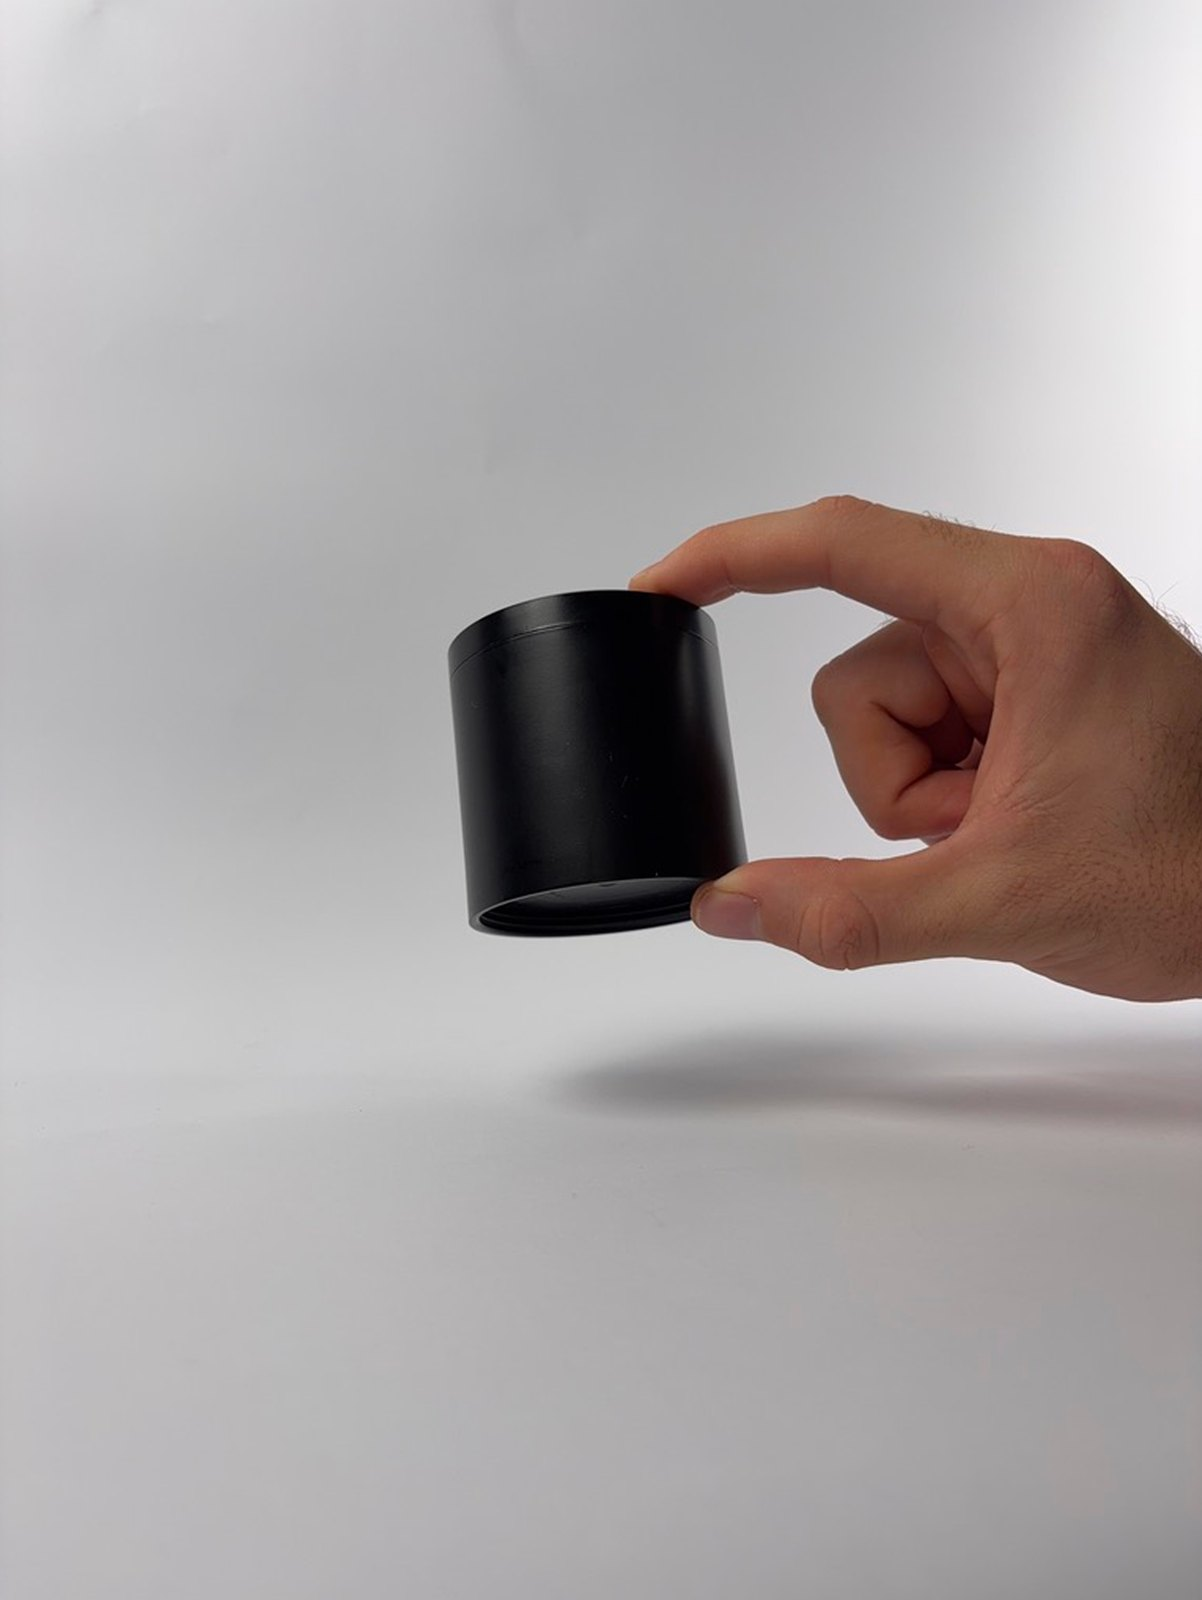
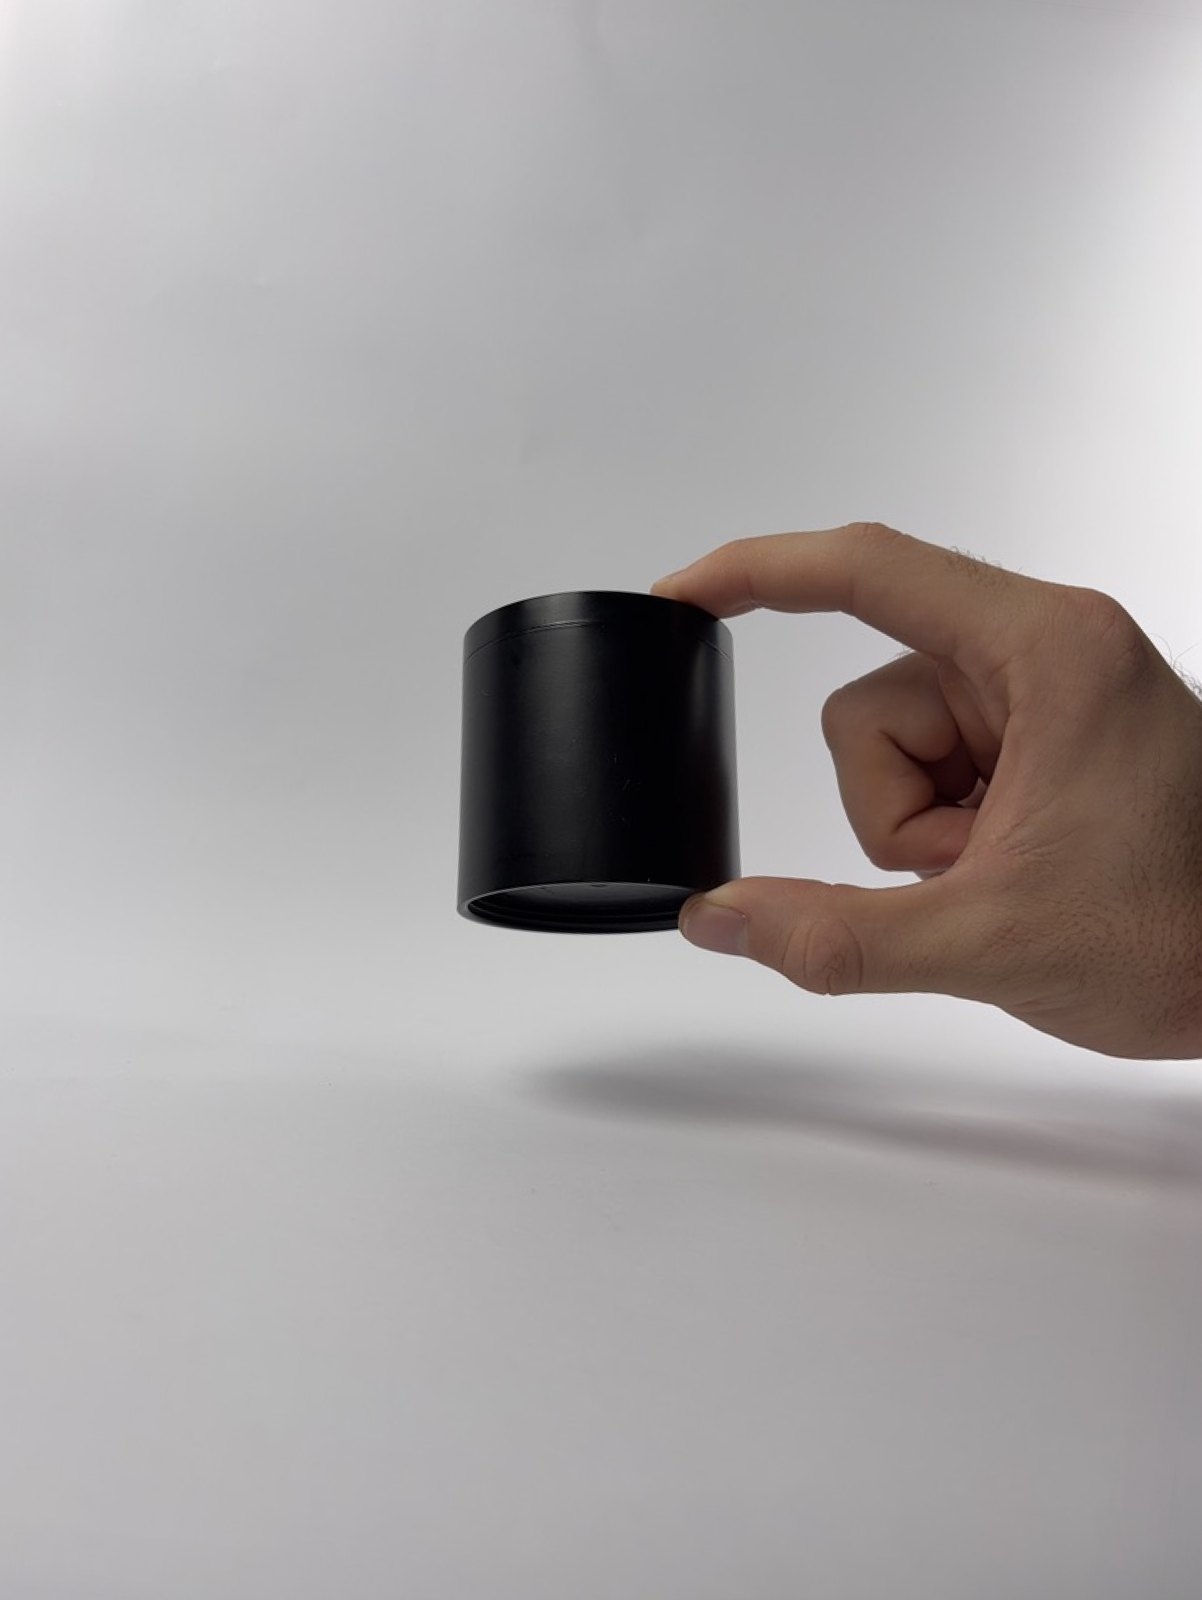
Product galleries: reposition and extend Large Pill Pod photos, refreshed Powder Pod photos, Large Pill Pod card tweaks

diff --git a/hybrid-pod.html b/hybrid-pod.html
@@ -333,23 +333,23 @@
     <div class="product-images-col">
       <div class="pg-gallery">
         <div class="pg-thumbs" id="pg-thumbs">
-          <button type="button" class="pg-thumb is-active" data-src="images/lifestyle_section/Large Pill Pod Prod Image 1.jpg" aria-label="Photo 1">
-            <img src="images/lifestyle_section/Large Pill Pod Prod Image 1.jpg" alt="" />
+          <button type="button" class="pg-thumb is-active" data-src="images/lifestyle_section/Large Pill Pod Prod Image 1 Wide.jpg" data-imgstyle="object-position: 50% 67.9%" aria-label="Photo 1">
+            <img src="images/lifestyle_section/Large Pill Pod Prod Image 1 Wide.jpg" alt="" />
           </button>
-          <button type="button" class="pg-thumb" data-src="images/lifestyle_section/Large Pill Pod Prod Image 2.jpg" aria-label="Photo 2">
-            <img src="images/lifestyle_section/Large Pill Pod Prod Image 2.jpg" alt="" />
+          <button type="button" class="pg-thumb" data-src="images/lifestyle_section/Large Pill Pod Prod Image 2 Wide.jpg" data-imgstyle="object-position: 50% 52.7%" aria-label="Photo 2">
+            <img src="images/lifestyle_section/Large Pill Pod Prod Image 2 Wide.jpg" alt="" />
           </button>
-          <button type="button" class="pg-thumb" data-src="images/lifestyle_section/Large Pill Pod Prod Image 3.jpg" aria-label="Photo 3">
-            <img src="images/lifestyle_section/Large Pill Pod Prod Image 3.jpg" alt="" />
+          <button type="button" class="pg-thumb" data-src="images/lifestyle_section/Large Pill Pod Prod Image 3 Wide.jpg" data-imgstyle="object-position: 50% 67.3%" aria-label="Photo 3">
+            <img src="images/lifestyle_section/Large Pill Pod Prod Image 3 Wide.jpg" alt="" />
           </button>
-          <button type="button" class="pg-thumb" data-src="images/lifestyle_section/Large Pill Pod Prod Image 4.jpg" aria-label="Photo 4">
+          <button type="button" class="pg-thumb" data-src="images/lifestyle_section/Large Pill Pod Prod Image 4.jpg" data-imgstyle="flex: none; width: 105%; max-width: none; position: relative; left: -6px; object-position: 50% 45.2%" aria-label="Photo 4">
             <img src="images/lifestyle_section/Large Pill Pod Prod Image 4.jpg" alt="" />
           </button>
         </div>
         <div class="pg-main">
           <button type="button" class="pg-arrow pg-arrow--prev" id="pg-prev" aria-label="Previous photo">&lsaquo;</button>
           <div class="pg-main-frame" id="pg-main-frame">
-            <img class="pg-main-img" id="pg-main-img" src="images/lifestyle_section/Large Pill Pod Prod Image 1.jpg" alt="Large Pill Pod" />
+            <img class="pg-main-img" id="pg-main-img" style="object-position: 50% 67.9%" src="images/lifestyle_section/Large Pill Pod Prod Image 1 Wide.jpg" alt="Large Pill Pod" />
           </div>
           <button type="button" class="pg-arrow pg-arrow--next" id="pg-next" aria-label="Next photo">&rsaquo;</button>
         </div>
@@ -566,7 +566,7 @@
         var thumb = thumbs[index];
         var src = thumb.dataset.src;
         mainFrame.innerHTML = src
-          ? '<img class="pg-main-img" id="pg-main-img" src="' + src + '" alt="Large Pill Pod" />'
+          ? '<img class="pg-main-img" id="pg-main-img"' + (thumb.dataset.imgstyle ? ' style="' + thumb.dataset.imgstyle + '"' : '') + ' src="' + src + '" alt="Large Pill Pod" />'
           : '<div class="pg-main-placeholder">Product photo</div>';
         thumbs.forEach(function (t, i) { t.classList.toggle('is-active', i === index); });
         current = index;

diff --git a/powder-pod.html b/powder-pod.html
@@ -333,7 +333,7 @@
     <div class="product-images-col">
       <div class="pg-gallery">
         <div class="pg-thumbs" id="pg-thumbs">
-          <button type="button" class="pg-thumb is-active" data-src="images/lifestyle_section/Powder Pod Prod Image 1.jpg" data-imgstyle="width: calc(100% + 18px); max-width: none; margin-left: -18px; object-position: 50% 70.8%" aria-label="Photo 1">
+          <button type="button" class="pg-thumb is-active" data-src="images/lifestyle_section/Powder Pod Prod Image 1.jpg" data-imgstyle="width: calc(100% + 18px); max-width: none; margin-left: -16px; margin-right: -2px; object-position: 50% 70.8%" aria-label="Photo 1">
             <img src="images/lifestyle_section/Powder Pod Prod Image 1.jpg" alt="" />
           </button>
           <button type="button" class="pg-thumb" data-src="images/lifestyle_section/Powder Pod Prod Image 2 Wide.jpg" data-imgstyle="object-position: 50% 76.1%" aria-label="Photo 2">
@@ -352,7 +352,7 @@
         <div class="pg-main">
           <button type="button" class="pg-arrow pg-arrow--prev" id="pg-prev" aria-label="Previous photo">&lsaquo;</button>
           <div class="pg-main-frame" id="pg-main-frame">
-            <img class="pg-main-img" id="pg-main-img" style="width: calc(100% + 18px); max-width: none; margin-left: -18px; object-position: 50% 70.8%" src="images/lifestyle_section/Powder Pod Prod Image 1.jpg" alt="Powder Pod" />
+            <img class="pg-main-img" id="pg-main-img" style="width: calc(100% + 18px); max-width: none; margin-left: -16px; margin-right: -2px; object-position: 50% 70.8%" src="images/lifestyle_section/Powder Pod Prod Image 1.jpg" alt="Powder Pod" />
           </div>
           <button type="button" class="pg-arrow pg-arrow--next" id="pg-next" aria-label="Next photo">&rsaquo;</button>
         </div>

diff --git a/catalog.html b/catalog.html
@@ -141,7 +141,7 @@
       </a>
       <a href="./hybrid-pod.html" class="shop-card">
         <div class="shop-card-img shop-card-img--sm">
-          <img src="images/lifestyle_section/Large Pill Pod Card.png" alt="Large Pill Pod" style="transform: translateY(8px) scale(0.85);" />
+          <img src="images/lifestyle_section/Large Pill Pod Card.png" alt="Large Pill Pod" style="transform: translate(2px, 8px) scale(0.86);" />
         </div>
         <div class="shop-card-info">
           <h3>Large Pill Pod</h3>
